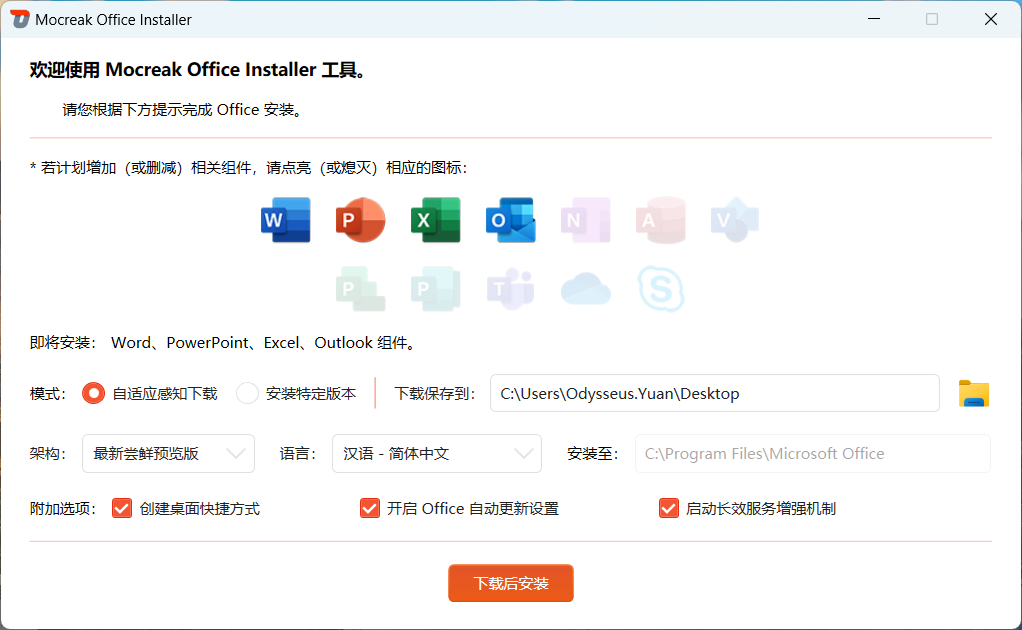
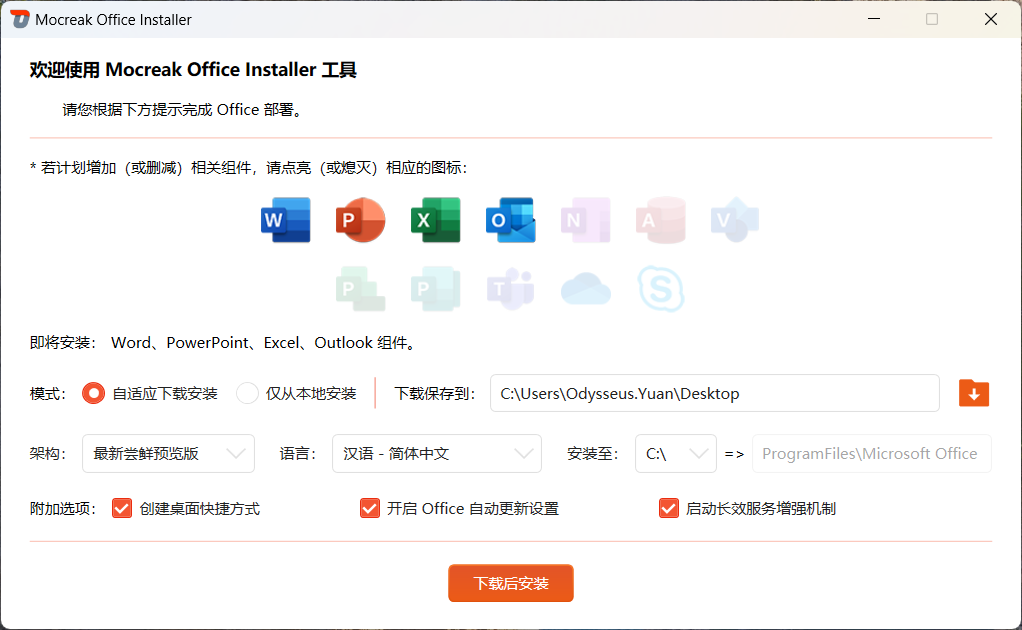
+ 支持将 Office 安装到其它分区，包括：固态硬盘、机械盘、可移动磁盘、闪盘、内存盘等。

diff --git a/README.md b/README.md
@@ -1,16 +1,18 @@
 #
 
 ## Mocreak
- > Mocreak 是一款一键自动化下载、安装、维护办公软件的智能工具。该工具完全免费、无广告、绿色、无毒、简约、高效、安全。
+ > Mocreak 是一款一键自动化下载、安装、激活 Office 正版的办公增强工具。该工具完全免费、无广告、绿色、无毒、简约、高效、安全。
 
 软件特性：
-- 一键快速下载、安装、维护最新版 Microsoft Office 软件。
-- 提供美观、简约、高效的可视化界面，方便用户快速部署。
+- 一键快速下载、安装、激活最新版 Microsoft Office 软件。
+- 提供简约、高效，且可自定义的图形界面，提升部署效率。
+- 支持将 Office 安装到其它分区，包括：固态硬盘、机械盘、可移动磁盘、闪盘、内存盘等。
+- 可任意组合安装 Word、PPT、Excel、Outlook、OneNote、Access、Visio、Project、Publisher、Teams、OneDrive、Lync/Skype等组件。
+- 支持至少43个国家或地区的语言作为Office界面语言。
 - 软件可自动识别不同的操作系统架构，自动下载适配版本的 Office，并自动安装。
 - 安装Office前，软件会自动检测冲突的Office组件，并对其进行卸载。
-- 支持“在线下载”或“指定特定版本的安装源”的方法部署Office组件。
-- 支持至少43个国家或地区的语言作为Office界面语言。
-- 用户可安装 Word、PPT、Excel、Outlook、OneNote、Access、Visio、Project、Publisher、Teams、OneDrive、Lync/Skype等多种组件。
+- 支持“在线下载安装”和“脱机安装”双策略安装 Office 组件。
+- 可使用本工具用于“完全删除 Office 组件”场景，在不需要 Office 时彻底清除。
 
 ### 操作界面
 - Mocreak - 核心操作界面
@@ -22,13 +24,8 @@
 - 从官网 https://www.mocreak.com 下载安装包，按照提示完成安装后即可运行。
 
 ### 运行&测试
-- 为确保运行稳定，本软件仅支持在 Win7/Win8/Win8.1/Win10/Win11 等系统架构下运行。
-- 软件已经在 Windows 11 (2302) 及以上版本的 x64 系统进行了测试，运行正常、稳定。
-
-### 特别说明
-- 未经开发者正式书面同意，任何人、企业、机构等，不得采用任何直接或间接的方式将本产品商业化，本产品作者有权追究违反者的一切法律责任。
-- 产品目前处于大版本迭代阶段，会持续产出功能性和改善性的需求，这可能会对您的计算机产生些许影响。
-- 严禁任何人、企业、机构等通过非法手段破解/反编译本软件，若要获取扩展源码，请在官网下载。
+- 为确保运行稳定，本软件支持在 Win10（21H2）/Win11 及以上版本的系统架构下运行。
+- 软件已经在 Windows 11 (2302) 版本的 x64、x86 系统进行了测试，运行正常、稳定。
 
 ### 关于
 - 如有建议、疑惑等，您可以发邮件至 liukaiyuan@sjtu.edu.cn 交流探讨。
